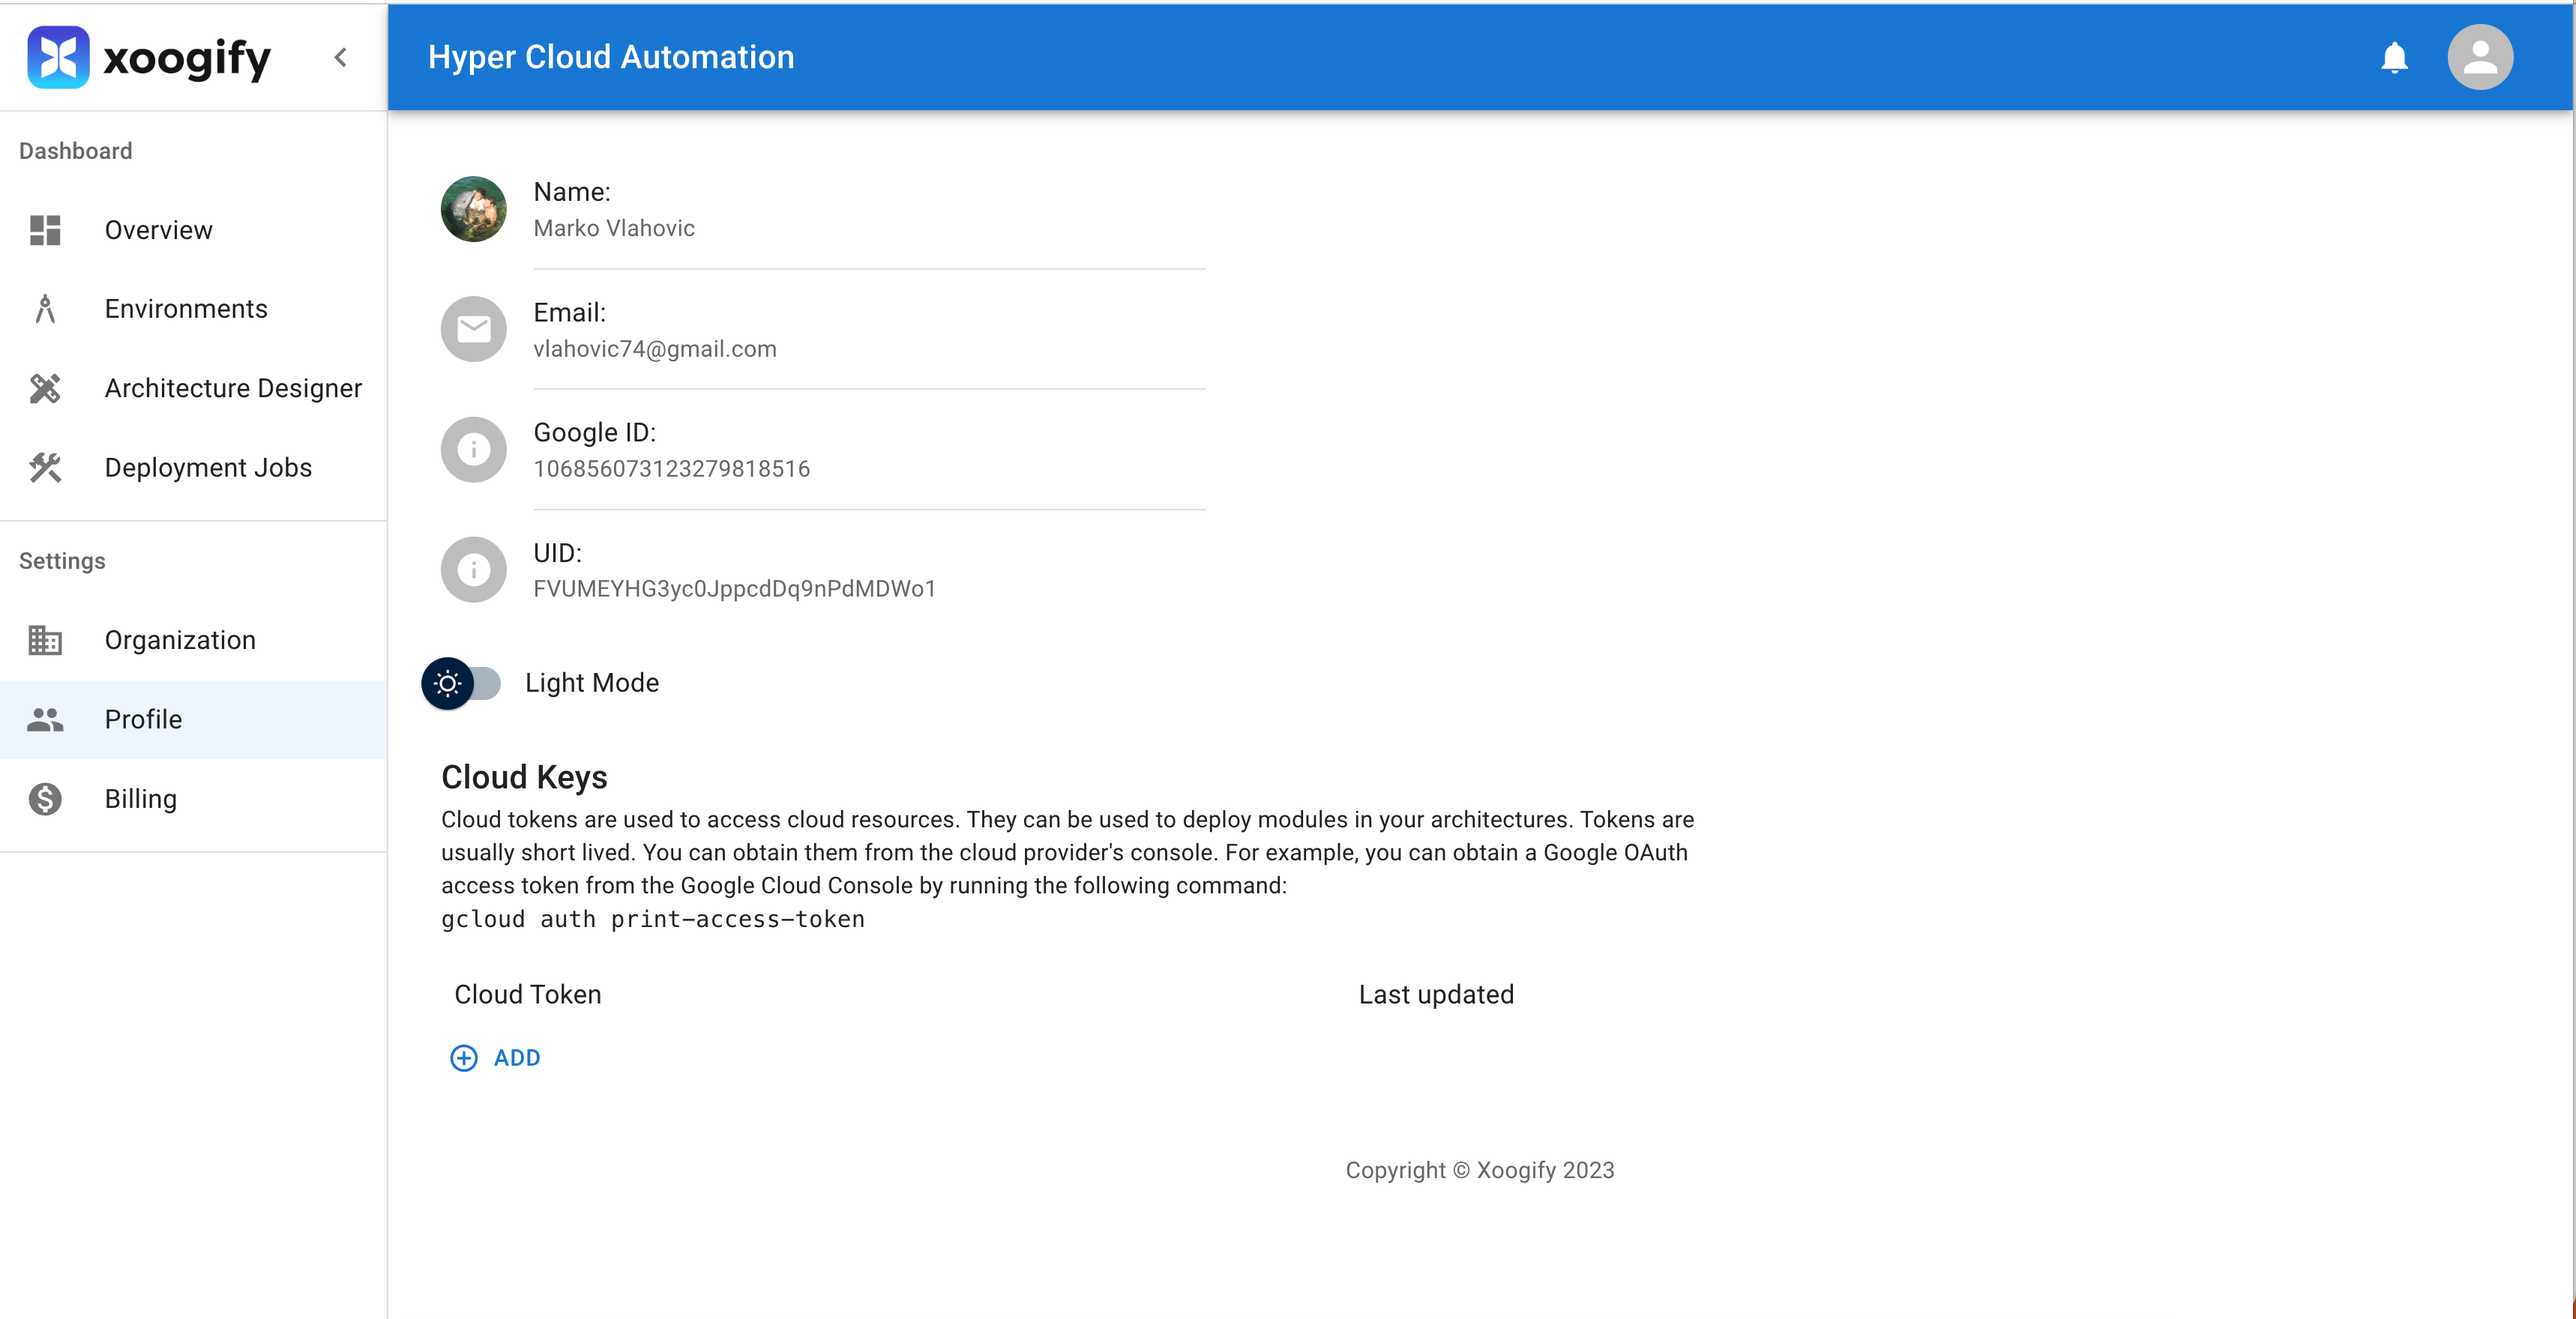
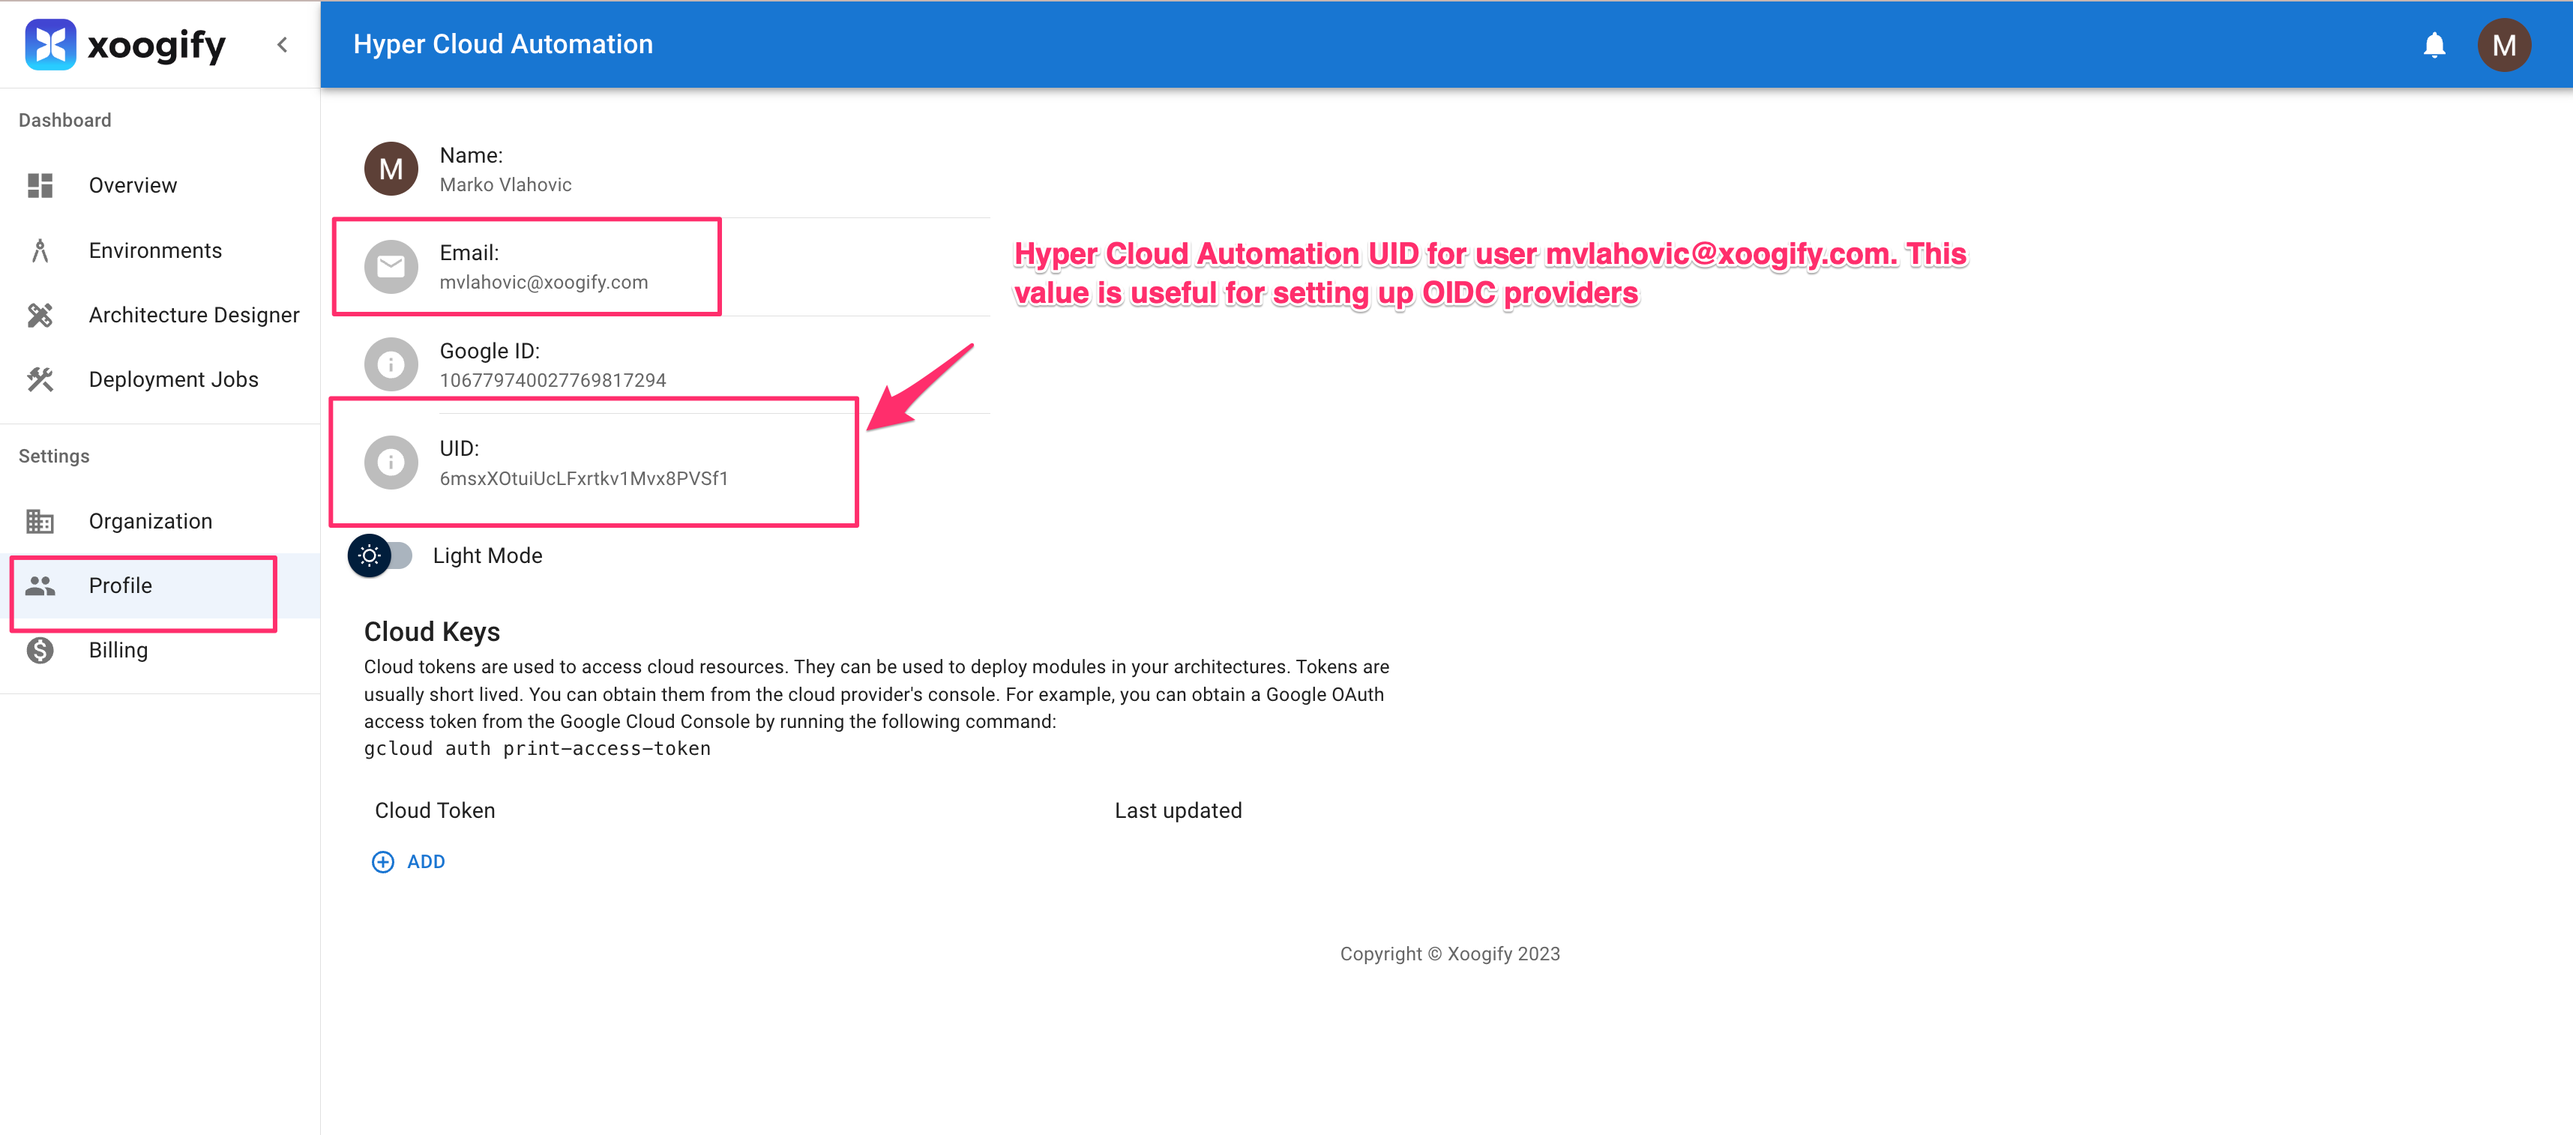
Add Cloud Authentication Methods for AWS

diff --git a/docs/CloudAuthenticationMethods/AWS/OIDCProvider.md b/docs/CloudAuthenticationMethods/AWS/OIDCProvider.md
@@ -1,0 +1,90 @@
+# OIDC Provider
+
+Setting up the OIDC provider will allow Hyper Cloud Automation to authenticate to your AWS Account without use of AWS Access Keys. OIDC Provider will allow Hyper Cloud Automation to authenticate using JWT Tokens.
+
+## Setup OIDC Provider and Role
+
+1. Log in to your AWS Account
+1. Go to IAM
+1. In the left navigation menu click on **Identity Providers**
+1. On the right click **Add provider** button
+   ![Add Provider Button](./img/OIDC_add_provider_button.png)
+1. Set the following:
+   1. Provider type: OpenID Connect
+   1. Provider URL: https://securetoken.google.com/mkv-xoogify-web-app-4b0e
+   1. Audience: **mkv-xoogify-web-app-4b0e**
+   1. Click on **Add Provider**
+      ![Provider Settings](./img/OIDC_provider_settings.png)
+1. You should see **securetoken.google.com/mkv-xoogify-web-app-4b0e** in the list of providers.
+1. Click on **securetoken.google.com/mkv-xoogify-web-app-4b0e** and note down the ARN.
+   ![Provider ARN](./img/OIDC_provider_arn.png)
+1. In the left navigation menu click on **Roles**
+1. In the right corner click on **Create Role** button
+1. Select **Custom Trust Policy** and set the policy to be like this:
+   ```json
+   {
+     "Version": "2012-10-17",
+     "Statement": [
+       {
+         "Effect": "Allow",
+         "Principal": {
+           "Federated": "arn:aws:iam::<YOUR AWS ACCOUNT ID>:oidc-provider/securetoken.google.com/mkv-xoogify-web-app-4b0e"
+         },
+         "Action": "sts:AssumeRoleWithWebIdentity",
+         "Condition": {
+           "StringEquals": {
+             "securetoken.google.com/mkv-xoogify-web-app-4b0e:aud": "mkv-xoogify-web-app-4b0e",
+             "securetoken.google.com/mkv-xoogify-web-app-4b0e:sub": "<Hyper Cloud Automation UID>"
+           }
+         }
+       }
+     ]
+   }
+   ```
+   where:
+   1. `<YOUR AWS ACCOUNT ID>` is the ID of the AWS Account where your are creatint this role (same account where OIDC Provider is created)
+   1. `<Hyper Cloud Automation UID>` is your user UID in Hyper Cloud Automation. You can find this value in [Profile](../../Concepts/Profile.md) page.
+      :::info
+      You can specify an array of UIDs as well. For example `"securetoken.google.com/mkv-xoogify-web-app-4b0e:sub": ["uid1", "uid2", "uid3"]`
+      :::
+      :::warning
+      It is very important to set UID value in the above policy. Do not leave it blank
+      :::
+      ![Trust Policy](./img/OIDC_provider_trust_settings.png)
+1. Press **Next**
+1. Add `Administrator Access` permission.
+   ![Admin Acess](./img/OIDC_provider_role_permissions.png)
+   :::info
+   Using `Administrator Access` is a broad policy best suted to deploy any kind of resource in your AWS account. If this is too broad you can set the permissions to other less broad roles.
+   :::
+1. Press **Next** button
+1. For role name enter **xoogify-admin**.
+1. For description enter "Xoogify Hyper Cloud Automation Federated Role"
+   ![Role Name](./img/OIDC_role_name.png)
+1. Press **Create** button
+1. **Note down the ARN of the created role. You will need it in the next section**
+   ![Role ARN](./img/OIDC_provider_arn.png)
+
+## Use OIDC Role in Hyper Cloud Automation
+
+This is an example of how you can use the above created role
+
+1. Go to https://app.xoogify.com
+1. Click on the [Environments](../../Concepts/Environment.md) in the left navigation menu
+1. Click on **Add Enironment** button and give it a name
+1. Add `AWS Account` to the environment tree
+   ![Environment Tree](./img/OIDC_test_envrionment.png)
+1. Click on **_Config_** button of the `AWS Account` (it looks like three dots)
+1. Set the following:
+   1. Name: Your AWS account name (can be anything but it's good to match the actual account name).
+   1. AWS Account ID: Must be valid account ID. In this tutorial it should match the account ID where the OIDC role is created in the [Setup OIDC Provider and Role](#setup-oidc-provider-and-role) section.
+   1. Assume Role ARN: The arn of the role created in the last step of the [Setup OIDC Provider and Role](#setup-oidc-provider-and-role) section.
+      ![AWS Account](./img/OIDC_AWS_Account_Datasource_settings.png)
+1. Press **Save** Button
+1. Add `AWS Region` to the `AWS Account` and set it to whatever region you want (For example: us-west-2)
+1. Add `AWS S3 Bucket` to the `AWS Region`
+1. Open [Module Config](../../Concepts/Module.md#module-config-button) and set the name of the bucket.
+1. Scroll down and press **Save**
+1. You should have something like this:
+   ![Full Tree](./img/OIDC_full_tree.png)
+1. You can start deploying the module. See [Modules](../../Concepts/Module.md) for more details.

diff --git a/docs/Concepts/Profile.md b/docs/Concepts/Profile.md
@@ -13,6 +13,7 @@ The Profile section displays the following user details:
 - Name: The full name of the user as registered on the platform.
 - Email: The email address associated with the user account.
 - **UID**: The unique identifier for the user within the Xoogify system.
+  ![Profile General](./img/Profile-General.png)
 
 :::info
 **_UID_** can be used to identify users in with OIDC systems in your cloud. For example, this value can be used to identify users when setting up [OIDC providers in AWS](https://docs.aws.amazon.com/IAM/latest/UserGuide/id_roles_providers_create_oidc.html)

diff --git a/docs/CloudAuthenticationMethods/AWS/README.md b/docs/CloudAuthenticationMethods/AWS/README.md
@@ -1,0 +1,11 @@
+---
+sidebar_position: 1
+---
+
+# AWS
+
+Hype Cloud Autoamation tool can authenticate with your AWS accounts using three methods:
+
+1. By uploading AWS Access Keys to [Cloud Keys](../../Concepts/Organization.md#cloud-keys) section of [Organization](../../Concepts/Organization.md)
+1. By setting up the OIDC Provider for Hyper Cloud Automation (Prefered way)
+1. By using xoogify role set with AFT module (Prefered if using AWS Control Tower and AWS Account Factory Module)

diff --git a/docs/CloudAuthenticationMethods/AWS/CloudKeys.md b/docs/CloudAuthenticationMethods/AWS/CloudKeys.md
@@ -1,0 +1,10 @@
+# AWS Access Token
+
+Easiest way to setup authentication with your AWS Account(s) would be to create a user with AWS Access Keys and then upload those keys to the
+[Cloud Keys](../../Concepts/Organization.md#cloud-keys).
+
+The procedure and example are described in Prerequisites section of [Getting Started on AWS](../../GettingStarted/AWS.md).
+
+:::warning
+According to the AWS documentation, creating long living AWS Acccess Keys is not recommended
+:::

diff --git a/docs/CloudAuthenticationMethods/README.md b/docs/CloudAuthenticationMethods/README.md
@@ -1,0 +1,3 @@
+# Cloud Authentication Methods
+
+In order for Hyper Cloud Automation tool to deploy resources to your cloud provider we need a way to authenticate first. Following sections show how to setup authentication for supported cloud providers.
